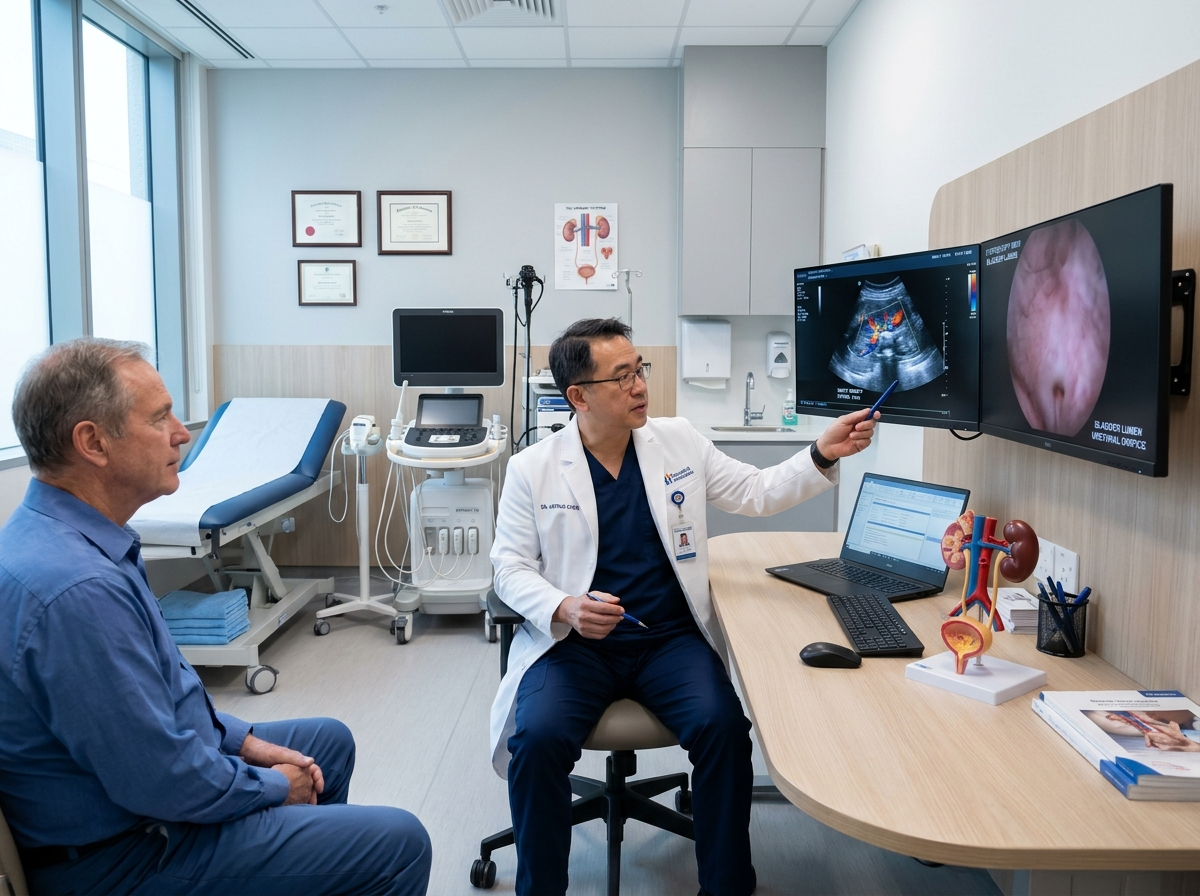
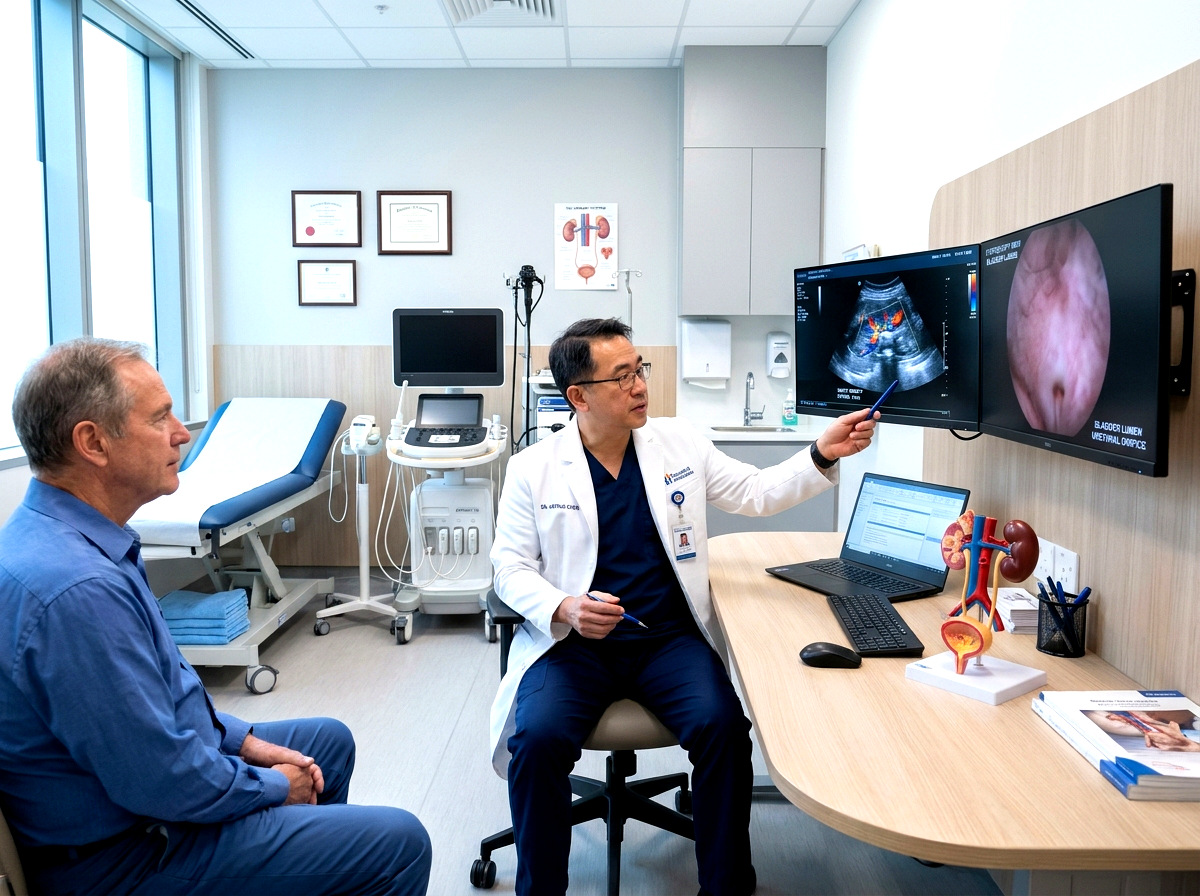
feat(ui): enhance brightness, contrast, and clarity across all services and departments photos

diff --git a/departments.html b/departments.html
@@ -228,7 +228,7 @@
         <a href="department-pediatrics.html" class="dept-showcase-card animate-up" style="text-decoration:none; color:inherit; display:flex; flex-direction:column; overflow:hidden; border-radius:var(--radius-lg); background:var(--bg-surface); border:1.5px solid var(--border-warm); box-shadow:var(--shadow-sm); transition:var(--transition-bounce);">
             <div class="dept-showcase-header-box" style="height:190px; position:relative; overflow:hidden; background:#fff5f2;">
                 <img src="hospital_nicu.jpg" alt="Pediatrics & Child Health" style="width:100%; height:100%; object-fit:cover; transition:transform 0.5s ease;">
-                <div style="position:absolute; inset:0; background:linear-gradient(180deg, rgba(0,0,0,0.05) 0%, rgba(0,0,0,0.45) 100%);"></div>
+                <div style="position:absolute; inset:0; background:linear-gradient(180deg, rgba(0,0,0,0) 65%, rgba(0,0,0,0.18) 100%);"></div>
                 <div style="position:absolute; top:12px; left:12px; width:40px; height:40px; border-radius:12px; background:rgba(255,255,255,0.92); backdrop-filter:blur(6px); color:var(--primary-accent); display:flex; align-items:center; justify-content:center; box-shadow:0 4px 12px rgba(0,0,0,0.15);">
                     <i data-lucide="baby" style="width:20px; height:20px;"></i>
                 </div>
@@ -248,7 +248,7 @@
         <a href="department-obstetrics.html" class="dept-showcase-card animate-up" style="text-decoration:none; color:inherit; display:flex; flex-direction:column; overflow:hidden; border-radius:var(--radius-lg); background:var(--bg-surface); border:1.5px solid var(--border-warm); box-shadow:var(--shadow-sm); transition:var(--transition-bounce);">
             <div class="dept-showcase-header-box" style="height:190px; position:relative; overflow:hidden; background:#fff5f2;">
                 <img src="hospital_gynecology_ot.jpg" alt="Obstetrics, Gynaecology & IVF Clinic" style="width:100%; height:100%; object-fit:cover; transition:transform 0.5s ease;">
-                <div style="position:absolute; inset:0; background:linear-gradient(180deg, rgba(0,0,0,0.05) 0%, rgba(0,0,0,0.45) 100%);"></div>
+                <div style="position:absolute; inset:0; background:linear-gradient(180deg, rgba(0,0,0,0) 65%, rgba(0,0,0,0.18) 100%);"></div>
                 <div style="position:absolute; top:12px; left:12px; width:40px; height:40px; border-radius:12px; background:rgba(255,255,255,0.92); backdrop-filter:blur(6px); color:var(--primary-accent); display:flex; align-items:center; justify-content:center; box-shadow:0 4px 12px rgba(0,0,0,0.15);">
                     <i data-lucide="heart-pulse" style="width:20px; height:20px;"></i>
                 </div>
@@ -268,7 +268,7 @@
         <a href="department-orthopedics.html" class="dept-showcase-card animate-up" style="text-decoration:none; color:inherit; display:flex; flex-direction:column; overflow:hidden; border-radius:var(--radius-lg); background:var(--bg-surface); border:1.5px solid var(--border-warm); box-shadow:var(--shadow-sm); transition:var(--transition-bounce);">
             <div class="dept-showcase-header-box" style="height:190px; position:relative; overflow:hidden; background:#fff5f2;">
                 <img src="hospital_ortho_ot.jpg" alt="Orthopedics & Joint Surgery" style="width:100%; height:100%; object-fit:cover; transition:transform 0.5s ease;">
-                <div style="position:absolute; inset:0; background:linear-gradient(180deg, rgba(0,0,0,0.05) 0%, rgba(0,0,0,0.45) 100%);"></div>
+                <div style="position:absolute; inset:0; background:linear-gradient(180deg, rgba(0,0,0,0) 65%, rgba(0,0,0,0.18) 100%);"></div>
                 <div style="position:absolute; top:12px; left:12px; width:40px; height:40px; border-radius:12px; background:rgba(255,255,255,0.92); backdrop-filter:blur(6px); color:var(--primary-accent); display:flex; align-items:center; justify-content:center; box-shadow:0 4px 12px rgba(0,0,0,0.15);">
                     <i data-lucide="bone" style="width:20px; height:20px;"></i>
                 </div>
@@ -288,7 +288,7 @@
         <a href="department-generalmedicine.html" class="dept-showcase-card animate-up" style="text-decoration:none; color:inherit; display:flex; flex-direction:column; overflow:hidden; border-radius:var(--radius-lg); background:var(--bg-surface); border:1.5px solid var(--border-warm); box-shadow:var(--shadow-sm); transition:var(--transition-bounce);">
             <div class="dept-showcase-header-box" style="height:190px; position:relative; overflow:hidden; background:#fff5f2;">
                 <img src="dept_generalmedicine.jpg" alt="General Medicine" style="width:100%; height:100%; object-fit:cover; transition:transform 0.5s ease;">
-                <div style="position:absolute; inset:0; background:linear-gradient(180deg, rgba(0,0,0,0.05) 0%, rgba(0,0,0,0.45) 100%);"></div>
+                <div style="position:absolute; inset:0; background:linear-gradient(180deg, rgba(0,0,0,0) 65%, rgba(0,0,0,0.18) 100%);"></div>
                 <div style="position:absolute; top:12px; left:12px; width:40px; height:40px; border-radius:12px; background:rgba(255,255,255,0.92); backdrop-filter:blur(6px); color:var(--primary-accent); display:flex; align-items:center; justify-content:center; box-shadow:0 4px 12px rgba(0,0,0,0.15);">
                     <i data-lucide="stethoscope" style="width:20px; height:20px;"></i>
                 </div>
@@ -308,7 +308,7 @@
         <a href="department-generalsurgery.html" class="dept-showcase-card animate-up" style="text-decoration:none; color:inherit; display:flex; flex-direction:column; overflow:hidden; border-radius:var(--radius-lg); background:var(--bg-surface); border:1.5px solid var(--border-warm); box-shadow:var(--shadow-sm); transition:var(--transition-bounce);">
             <div class="dept-showcase-header-box" style="height:190px; position:relative; overflow:hidden; background:#fff5f2;">
                 <img src="hospital_modular_ot.jpg" alt="General & Laparoscopic Surgery" style="width:100%; height:100%; object-fit:cover; transition:transform 0.5s ease;">
-                <div style="position:absolute; inset:0; background:linear-gradient(180deg, rgba(0,0,0,0.05) 0%, rgba(0,0,0,0.45) 100%);"></div>
+                <div style="position:absolute; inset:0; background:linear-gradient(180deg, rgba(0,0,0,0) 65%, rgba(0,0,0,0.18) 100%);"></div>
                 <div style="position:absolute; top:12px; left:12px; width:40px; height:40px; border-radius:12px; background:rgba(255,255,255,0.92); backdrop-filter:blur(6px); color:var(--primary-accent); display:flex; align-items:center; justify-content:center; box-shadow:0 4px 12px rgba(0,0,0,0.15);">
                     <i data-lucide="scissors" style="width:20px; height:20px;"></i>
                 </div>
@@ -328,7 +328,7 @@
         <a href="department-nephrology.html" class="dept-showcase-card animate-up" style="text-decoration:none; color:inherit; display:flex; flex-direction:column; overflow:hidden; border-radius:var(--radius-lg); background:var(--bg-surface); border:1.5px solid var(--border-warm); box-shadow:var(--shadow-sm); transition:var(--transition-bounce);">
             <div class="dept-showcase-header-box" style="height:190px; position:relative; overflow:hidden; background:#fff5f2;">
                 <img src="dept_nephrology.jpg" alt="Nephrology (Kidney Care)" style="width:100%; height:100%; object-fit:cover; transition:transform 0.5s ease;">
-                <div style="position:absolute; inset:0; background:linear-gradient(180deg, rgba(0,0,0,0.05) 0%, rgba(0,0,0,0.45) 100%);"></div>
+                <div style="position:absolute; inset:0; background:linear-gradient(180deg, rgba(0,0,0,0) 65%, rgba(0,0,0,0.18) 100%);"></div>
                 <div style="position:absolute; top:12px; left:12px; width:40px; height:40px; border-radius:12px; background:rgba(255,255,255,0.92); backdrop-filter:blur(6px); color:var(--primary-accent); display:flex; align-items:center; justify-content:center; box-shadow:0 4px 12px rgba(0,0,0,0.15);">
                     <i data-lucide="filter" style="width:20px; height:20px;"></i>
                 </div>
@@ -348,7 +348,7 @@
         <a href="department-urology.html" class="dept-showcase-card animate-up" style="text-decoration:none; color:inherit; display:flex; flex-direction:column; overflow:hidden; border-radius:var(--radius-lg); background:var(--bg-surface); border:1.5px solid var(--border-warm); box-shadow:var(--shadow-sm); transition:var(--transition-bounce);">
             <div class="dept-showcase-header-box" style="height:190px; position:relative; overflow:hidden; background:#fff5f2;">
                 <img src="dept_urology.jpg" alt="Urology & Stone Care" style="width:100%; height:100%; object-fit:cover; transition:transform 0.5s ease;">
-                <div style="position:absolute; inset:0; background:linear-gradient(180deg, rgba(0,0,0,0.05) 0%, rgba(0,0,0,0.45) 100%);"></div>
+                <div style="position:absolute; inset:0; background:linear-gradient(180deg, rgba(0,0,0,0) 65%, rgba(0,0,0,0.18) 100%);"></div>
                 <div style="position:absolute; top:12px; left:12px; width:40px; height:40px; border-radius:12px; background:rgba(255,255,255,0.92); backdrop-filter:blur(6px); color:var(--primary-accent); display:flex; align-items:center; justify-content:center; box-shadow:0 4px 12px rgba(0,0,0,0.15);">
                     <i data-lucide="shield-plus" style="width:20px; height:20px;"></i>
                 </div>
@@ -368,7 +368,7 @@
         <a href="department-ophthalmology.html" class="dept-showcase-card animate-up" style="text-decoration:none; color:inherit; display:flex; flex-direction:column; overflow:hidden; border-radius:var(--radius-lg); background:var(--bg-surface); border:1.5px solid var(--border-warm); box-shadow:var(--shadow-sm); transition:var(--transition-bounce);">
             <div class="dept-showcase-header-box" style="height:190px; position:relative; overflow:hidden; background:#fff5f2;">
                 <img src="dept_ophthalmology.jpg" alt="Ophthalmology (Eye Care)" style="width:100%; height:100%; object-fit:cover; transition:transform 0.5s ease;">
-                <div style="position:absolute; inset:0; background:linear-gradient(180deg, rgba(0,0,0,0.05) 0%, rgba(0,0,0,0.45) 100%);"></div>
+                <div style="position:absolute; inset:0; background:linear-gradient(180deg, rgba(0,0,0,0) 65%, rgba(0,0,0,0.18) 100%);"></div>
                 <div style="position:absolute; top:12px; left:12px; width:40px; height:40px; border-radius:12px; background:rgba(255,255,255,0.92); backdrop-filter:blur(6px); color:var(--primary-accent); display:flex; align-items:center; justify-content:center; box-shadow:0 4px 12px rgba(0,0,0,0.15);">
                     <i data-lucide="eye" style="width:20px; height:20px;"></i>
                 </div>
@@ -388,7 +388,7 @@
         <a href="department-oncology.html" class="dept-showcase-card animate-up" style="text-decoration:none; color:inherit; display:flex; flex-direction:column; overflow:hidden; border-radius:var(--radius-lg); background:var(--bg-surface); border:1.5px solid var(--border-warm); box-shadow:var(--shadow-sm); transition:var(--transition-bounce);">
             <div class="dept-showcase-header-box" style="height:190px; position:relative; overflow:hidden; background:#fff5f2;">
                 <img src="dept_oncology.jpg" alt="Oncology (Cancer Care)" style="width:100%; height:100%; object-fit:cover; transition:transform 0.5s ease;">
-                <div style="position:absolute; inset:0; background:linear-gradient(180deg, rgba(0,0,0,0.05) 0%, rgba(0,0,0,0.45) 100%);"></div>
+                <div style="position:absolute; inset:0; background:linear-gradient(180deg, rgba(0,0,0,0) 65%, rgba(0,0,0,0.18) 100%);"></div>
                 <div style="position:absolute; top:12px; left:12px; width:40px; height:40px; border-radius:12px; background:rgba(255,255,255,0.92); backdrop-filter:blur(6px); color:var(--primary-accent); display:flex; align-items:center; justify-content:center; box-shadow:0 4px 12px rgba(0,0,0,0.15);">
                     <i data-lucide="crosshair" style="width:20px; height:20px;"></i>
                 </div>

diff --git a/style.css b/style.css
@@ -5085,7 +5085,7 @@ p {
 .service-photo-overlay {
     position: absolute;
     inset: 0;
-    background: linear-gradient(180deg, rgba(0, 0, 0, 0.02) 0%, rgba(0, 0, 0, 0.44) 100%);
+    background: linear-gradient(180deg, rgba(0, 0, 0, 0) 65%, rgba(0, 0, 0, 0.16) 100%);
     pointer-events: none;
 }
 
@@ -5774,14 +5774,14 @@ p {
 .facility-photo-overlay {
     position: absolute;
     inset: 0;
-    background: linear-gradient(180deg, rgba(0,0,0,0) 50%, rgba(0,0,0,0.5) 100%);
-    opacity: 0.6;
+    background: linear-gradient(180deg, rgba(0,0,0,0) 70%, rgba(0,0,0,0.18) 100%);
+    opacity: 0.28;
     transition: opacity 0.4s ease;
     z-index: 1;
 }
 
 .facility-photo-card:hover .facility-photo-overlay {
-    opacity: 0.35;
+    opacity: 0.12;
 }
 
 .facility-photo-badge {
@@ -5888,3 +5888,28 @@ p {
 }
 
 
+
+
+/* ==========================================================================
+   BRIGHTNESS, CONTRAST & CLARITY ENHANCEMENTS FOR MEDICAL FACILITY PHOTOS
+   ========================================================================== */
+.service-card-photo,
+.service-showcase-img,
+.facility-photo-img,
+.dept-showcase-header-box img,
+.dept-card-photo img,
+.detail-arch-frame img {
+    filter: brightness(1.05) contrast(1.04) saturate(1.04);
+    image-rendering: -webkit-optimize-contrast;
+    transition: transform 0.65s cubic-bezier(0.16, 1, 0.3, 1), filter 0.45s ease;
+}
+
+.service-card:hover .service-card-photo,
+.service-showcase-card:hover .service-showcase-img,
+.facility-photo-card:hover .facility-photo-img,
+.dept-showcase-card:hover .dept-showcase-header-box img,
+.dept-card-photo:hover img,
+.detail-arch-frame:hover img {
+    transform: scale(1.06);
+    filter: brightness(1.10) contrast(1.07) saturate(1.08);
+}

diff --git a/service-beds.html b/service-beds.html
@@ -280,7 +280,7 @@
                 <div class="detail-hero-visual">
                     <div class="detail-arch-frame" style="height:380px; border-radius:var(--radius-lg); overflow:hidden; position:relative; box-shadow:0 14px 36px rgba(128,0,0,0.12); border:2px solid var(--border-warm); background:#fff5f2;">
                         <img src="hospital_casualty.jpg" alt="100+ Beds (Sharing & Single Rooms)" style="width:100%; height:100%; object-fit:cover; object-position:center 32%; display:block;">
-                        <div style="position:absolute; inset:0; background:linear-gradient(180deg, rgba(0,0,0,0.02) 0%, rgba(0,0,0,0.48) 100%);"></div>
+                        <div style="position:absolute; inset:0; background:linear-gradient(180deg, rgba(0,0,0,0) 65%, rgba(0,0,0,0.2) 100%);"></div>
                         <div class="detail-floating-badge" style="position:absolute; bottom:20px; left:20px; right:20px; background:rgba(255,255,255,0.96); backdrop-filter:blur(8px); -webkit-backdrop-filter:blur(8px); padding:0.75rem 1.2rem; border-radius:14px; display:flex; align-items:center; gap:10px; box-shadow:0 6px 20px rgba(0,0,0,0.15);">
                             <div class="card-icon-badge" style="width:38px; height:38px; font-size:1rem; margin:0; flex-shrink:0;">
                                 <i data-lucide="bed-double"></i>

diff --git a/service-ambulance.html b/service-ambulance.html
@@ -280,7 +280,7 @@
                 <div class="detail-hero-visual">
                     <div class="detail-arch-frame" style="height:380px; border-radius:var(--radius-lg); overflow:hidden; position:relative; box-shadow:0 14px 36px rgba(128,0,0,0.12); border:2px solid var(--border-warm); background:#fff5f2;">
                         <img src="service_ambulance.jpg" alt="24/7 Ambulance Service" style="width:100%; height:100%; object-fit:cover; object-position:center 32%; display:block;">
-                        <div style="position:absolute; inset:0; background:linear-gradient(180deg, rgba(0,0,0,0.02) 0%, rgba(0,0,0,0.48) 100%);"></div>
+                        <div style="position:absolute; inset:0; background:linear-gradient(180deg, rgba(0,0,0,0) 65%, rgba(0,0,0,0.2) 100%);"></div>
                         <div class="detail-floating-badge" style="position:absolute; bottom:20px; left:20px; right:20px; background:rgba(255,255,255,0.96); backdrop-filter:blur(8px); -webkit-backdrop-filter:blur(8px); padding:0.75rem 1.2rem; border-radius:14px; display:flex; align-items:center; gap:10px; box-shadow:0 6px 20px rgba(0,0,0,0.15);">
                             <div class="card-icon-badge" style="width:38px; height:38px; font-size:1rem; margin:0; flex-shrink:0;">
                                 <i data-lucide="ambulance"></i>

diff --git a/service-emergency.html b/service-emergency.html
@@ -280,7 +280,7 @@
                 <div class="detail-hero-visual">
                     <div class="detail-arch-frame" style="height:380px; border-radius:var(--radius-lg); overflow:hidden; position:relative; box-shadow:0 14px 36px rgba(128,0,0,0.12); border:2px solid var(--border-warm); background:#fff5f2;">
                         <img src="reception_desk.jpg" alt="24/7 Emergency & Casualty" style="width:100%; height:100%; object-fit:cover; object-position:center 32%; display:block;">
-                        <div style="position:absolute; inset:0; background:linear-gradient(180deg, rgba(0,0,0,0.02) 0%, rgba(0,0,0,0.48) 100%);"></div>
+                        <div style="position:absolute; inset:0; background:linear-gradient(180deg, rgba(0,0,0,0) 65%, rgba(0,0,0,0.2) 100%);"></div>
                         <div class="detail-floating-badge" style="position:absolute; bottom:20px; left:20px; right:20px; background:rgba(255,255,255,0.96); backdrop-filter:blur(8px); -webkit-backdrop-filter:blur(8px); padding:0.75rem 1.2rem; border-radius:14px; display:flex; align-items:center; gap:10px; box-shadow:0 6px 20px rgba(0,0,0,0.15);">
                             <div class="card-icon-badge" style="width:38px; height:38px; font-size:1rem; margin:0; flex-shrink:0;">
                                 <i data-lucide="clock"></i>

diff --git a/service-icu.html b/service-icu.html
@@ -280,7 +280,7 @@
                 <div class="detail-hero-visual">
                     <div class="detail-arch-frame" style="height:380px; border-radius:var(--radius-lg); overflow:hidden; position:relative; box-shadow:0 14px 36px rgba(128,0,0,0.12); border:2px solid var(--border-warm); background:#fff5f2;">
                         <img src="hospital_nicu.jpg" alt="NICU (Neonatal ICU)" style="width:100%; height:100%; object-fit:cover; object-position:center 32%; display:block;">
-                        <div style="position:absolute; inset:0; background:linear-gradient(180deg, rgba(0,0,0,0.02) 0%, rgba(0,0,0,0.48) 100%);"></div>
+                        <div style="position:absolute; inset:0; background:linear-gradient(180deg, rgba(0,0,0,0) 65%, rgba(0,0,0,0.2) 100%);"></div>
                         <div class="detail-floating-badge" style="position:absolute; bottom:20px; left:20px; right:20px; background:rgba(255,255,255,0.96); backdrop-filter:blur(8px); -webkit-backdrop-filter:blur(8px); padding:0.75rem 1.2rem; border-radius:14px; display:flex; align-items:center; gap:10px; box-shadow:0 6px 20px rgba(0,0,0,0.15);">
                             <div class="card-icon-badge" style="width:38px; height:38px; font-size:1rem; margin:0; flex-shrink:0;">
                                 <i data-lucide="activity"></i>

diff --git a/service-waiting-hall.html b/service-waiting-hall.html
@@ -280,7 +280,7 @@
                 <div class="detail-hero-visual">
                     <div class="detail-arch-frame" style="height:380px; border-radius:var(--radius-lg); overflow:hidden; position:relative; box-shadow:0 14px 36px rgba(128,0,0,0.12); border:2px solid var(--border-warm); background:#fff5f2;">
                         <img src="hospital_waiting_area.jpg" alt="Waiting Hall" style="width:100%; height:100%; object-fit:cover; object-position:center 32%; display:block;">
-                        <div style="position:absolute; inset:0; background:linear-gradient(180deg, rgba(0,0,0,0.02) 0%, rgba(0,0,0,0.48) 100%);"></div>
+                        <div style="position:absolute; inset:0; background:linear-gradient(180deg, rgba(0,0,0,0) 65%, rgba(0,0,0,0.2) 100%);"></div>
                         <div class="detail-floating-badge" style="position:absolute; bottom:20px; left:20px; right:20px; background:rgba(255,255,255,0.96); backdrop-filter:blur(8px); -webkit-backdrop-filter:blur(8px); padding:0.75rem 1.2rem; border-radius:14px; display:flex; align-items:center; gap:10px; box-shadow:0 6px 20px rgba(0,0,0,0.15);">
                             <div class="card-icon-badge" style="width:38px; height:38px; font-size:1rem; margin:0; flex-shrink:0;">
                                 <i data-lucide="users"></i>

diff --git a/service-pharmacy.html b/service-pharmacy.html
@@ -280,7 +280,7 @@
                 <div class="detail-hero-visual">
                     <div class="detail-arch-frame" style="height:380px; border-radius:var(--radius-lg); overflow:hidden; position:relative; box-shadow:0 14px 36px rgba(128,0,0,0.12); border:2px solid var(--border-warm); background:#fff5f2;">
                         <img src="pharmacy.jpg" alt="Pharmacy (24/7)" style="width:100%; height:100%; object-fit:cover; object-position:center 32%; display:block;">
-                        <div style="position:absolute; inset:0; background:linear-gradient(180deg, rgba(0,0,0,0.02) 0%, rgba(0,0,0,0.48) 100%);"></div>
+                        <div style="position:absolute; inset:0; background:linear-gradient(180deg, rgba(0,0,0,0) 65%, rgba(0,0,0,0.2) 100%);"></div>
                         <div class="detail-floating-badge" style="position:absolute; bottom:20px; left:20px; right:20px; background:rgba(255,255,255,0.96); backdrop-filter:blur(8px); -webkit-backdrop-filter:blur(8px); padding:0.75rem 1.2rem; border-radius:14px; display:flex; align-items:center; gap:10px; box-shadow:0 6px 20px rgba(0,0,0,0.15);">
                             <div class="card-icon-badge" style="width:38px; height:38px; font-size:1rem; margin:0; flex-shrink:0;">
                                 <i data-lucide="pill"></i>

diff --git a/department-obstetrics.html b/department-obstetrics.html
@@ -276,7 +276,7 @@
                 <div class="detail-hero-visual">
                     <div class="detail-arch-frame" style="height:380px; border-radius:var(--radius-lg); overflow:hidden; position:relative; box-shadow:0 14px 36px rgba(128,0,0,0.12); border:2px solid var(--border-warm); background:#fff5f2;">
                         <img src="hospital_gynecology_ot.jpg" alt="Obstetrics, Gynaecology & IVF Clinic" style="width:100%; height:100%; object-fit:cover; display:block;">
-                        <div style="position:absolute; inset:0; background:linear-gradient(180deg, rgba(0,0,0,0.02) 0%, rgba(0,0,0,0.5) 100%);"></div>
+                        <div style="position:absolute; inset:0; background:linear-gradient(180deg, rgba(0,0,0,0) 65%, rgba(0,0,0,0.2) 100%);"></div>
                         <div class="detail-floating-badge" style="position:absolute; bottom:20px; left:20px; right:20px; background:rgba(255,255,255,0.95); backdrop-filter:blur(8px); padding:0.75rem 1.2rem; border-radius:14px; display:flex; align-items:center; gap:10px; box-shadow:0 6px 20px rgba(0,0,0,0.15);">
                             <div class="card-icon-badge" style="width:38px; height:38px; font-size:1rem; margin:0; flex-shrink:0;">
                                 <i data-lucide="heart-pulse"></i>

diff --git a/department-generalsurgery.html b/department-generalsurgery.html
@@ -276,7 +276,7 @@
                 <div class="detail-hero-visual">
                     <div class="detail-arch-frame" style="height:380px; border-radius:var(--radius-lg); overflow:hidden; position:relative; box-shadow:0 14px 36px rgba(128,0,0,0.12); border:2px solid var(--border-warm); background:#fff5f2;">
                         <img src="hospital_modular_ot.jpg" alt="General & Laparoscopic Surgery" style="width:100%; height:100%; object-fit:cover; display:block;">
-                        <div style="position:absolute; inset:0; background:linear-gradient(180deg, rgba(0,0,0,0.02) 0%, rgba(0,0,0,0.5) 100%);"></div>
+                        <div style="position:absolute; inset:0; background:linear-gradient(180deg, rgba(0,0,0,0) 65%, rgba(0,0,0,0.2) 100%);"></div>
                         <div class="detail-floating-badge" style="position:absolute; bottom:20px; left:20px; right:20px; background:rgba(255,255,255,0.95); backdrop-filter:blur(8px); padding:0.75rem 1.2rem; border-radius:14px; display:flex; align-items:center; gap:10px; box-shadow:0 6px 20px rgba(0,0,0,0.15);">
                             <div class="card-icon-badge" style="width:38px; height:38px; font-size:1rem; margin:0; flex-shrink:0;">
                                 <i data-lucide="scissors"></i>

diff --git a/department-orthopedics.html b/department-orthopedics.html
@@ -276,7 +276,7 @@
                 <div class="detail-hero-visual">
                     <div class="detail-arch-frame" style="height:380px; border-radius:var(--radius-lg); overflow:hidden; position:relative; box-shadow:0 14px 36px rgba(128,0,0,0.12); border:2px solid var(--border-warm); background:#fff5f2;">
                         <img src="hospital_ortho_ot.jpg" alt="Orthopedics & Joint Surgery" style="width:100%; height:100%; object-fit:cover; display:block;">
-                        <div style="position:absolute; inset:0; background:linear-gradient(180deg, rgba(0,0,0,0.02) 0%, rgba(0,0,0,0.5) 100%);"></div>
+                        <div style="position:absolute; inset:0; background:linear-gradient(180deg, rgba(0,0,0,0) 65%, rgba(0,0,0,0.2) 100%);"></div>
                         <div class="detail-floating-badge" style="position:absolute; bottom:20px; left:20px; right:20px; background:rgba(255,255,255,0.95); backdrop-filter:blur(8px); padding:0.75rem 1.2rem; border-radius:14px; display:flex; align-items:center; gap:10px; box-shadow:0 6px 20px rgba(0,0,0,0.15);">
                             <div class="card-icon-badge" style="width:38px; height:38px; font-size:1rem; margin:0; flex-shrink:0;">
                                 <i data-lucide="bone"></i>

diff --git a/department-generalmedicine.html b/department-generalmedicine.html
@@ -276,7 +276,7 @@
                 <div class="detail-hero-visual">
                     <div class="detail-arch-frame" style="height:380px; border-radius:var(--radius-lg); overflow:hidden; position:relative; box-shadow:0 14px 36px rgba(128,0,0,0.12); border:2px solid var(--border-warm); background:#fff5f2;">
                         <img src="dept_generalmedicine.jpg" alt="General Medicine" style="width:100%; height:100%; object-fit:cover; display:block;">
-                        <div style="position:absolute; inset:0; background:linear-gradient(180deg, rgba(0,0,0,0.02) 0%, rgba(0,0,0,0.5) 100%);"></div>
+                        <div style="position:absolute; inset:0; background:linear-gradient(180deg, rgba(0,0,0,0) 65%, rgba(0,0,0,0.2) 100%);"></div>
                         <div class="detail-floating-badge" style="position:absolute; bottom:20px; left:20px; right:20px; background:rgba(255,255,255,0.95); backdrop-filter:blur(8px); padding:0.75rem 1.2rem; border-radius:14px; display:flex; align-items:center; gap:10px; box-shadow:0 6px 20px rgba(0,0,0,0.15);">
                             <div class="card-icon-badge" style="width:38px; height:38px; font-size:1rem; margin:0; flex-shrink:0;">
                                 <i data-lucide="stethoscope"></i>
